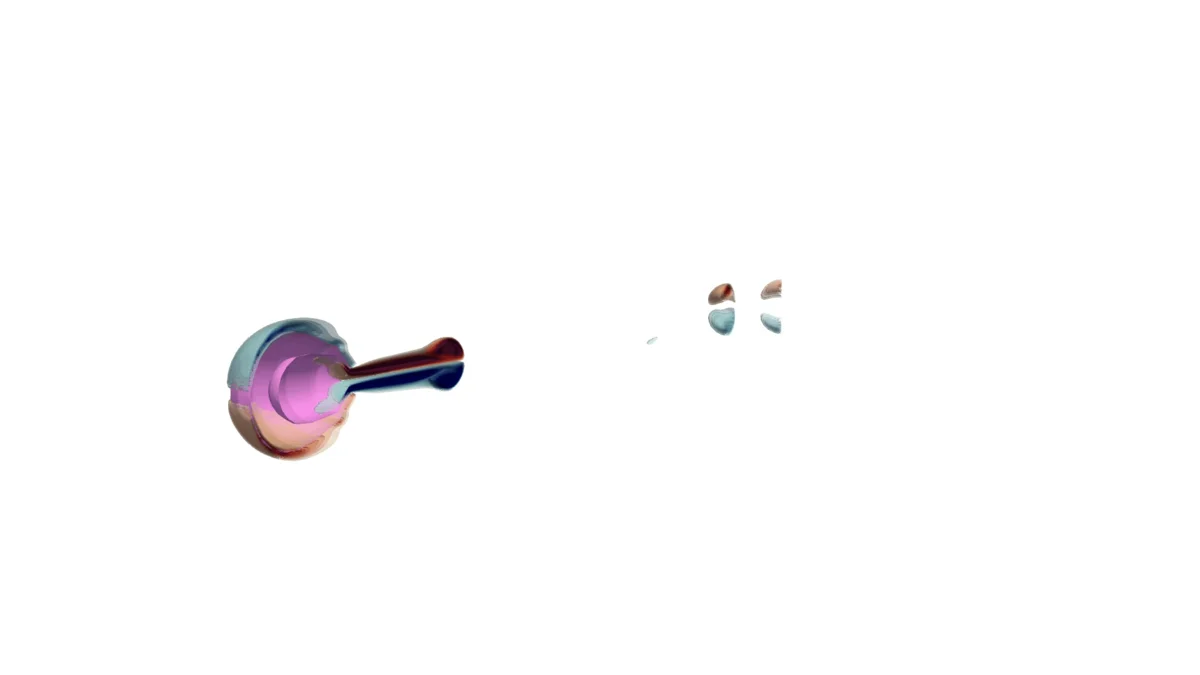
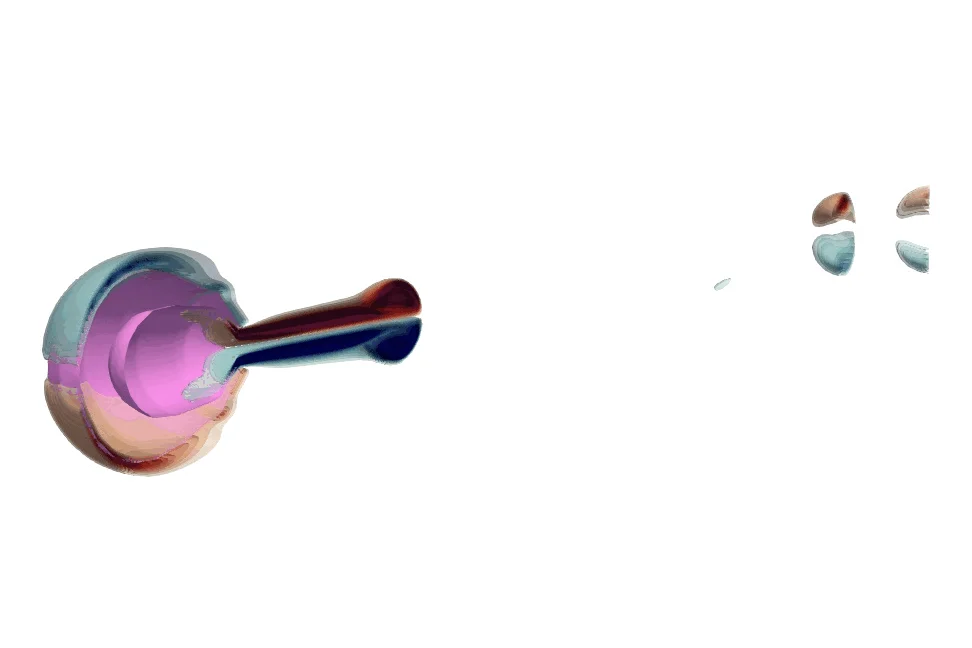
Uniform 3:2 gallery cells and tighter jelly gif crop
Grid items are fixed-aspect white cards with object-fit contain.
jelly.gif is cropped to the animation's content box (2x bigger
subject); gallery_thumbs.rb now coalesces optimized GIF frames
before extracting the thumb frame.

Assisted-By: Claude Fable 5 <[email redacted]>

diff --git a/_sass/custom.scss b/_sass/custom.scss
@@ -358,10 +358,17 @@ img[src*='#center'] {
   transition: transform 0.3s ease, box-shadow 0.3s ease;
 }
 /* The theme's modal gallery styles set .gallery-item to height:100% with
-   centered content; grid items must hug their image instead so the play
-   icon overlays it. */
+   centered content; grid cells are uniform 3:2 cards instead (the height
+   override also keeps the play icon anchored to the cell). */
 .gallery-grid .gallery-item {
   height: auto;
+  aspect-ratio: 3 / 2;
+  background: #fff;  /* letterboxing blends into the white-background figures */
+}
+.gallery-grid .gallery-item img {
+  width: 100%;
+  height: 100%;
+  object-fit: contain;
 }
 /* Play icon over grid thumbs of video items */
 .gallery-grid .gallery-item__play {

diff --git a/_plugins/gallery_thumbs.rb b/_plugins/gallery_thumbs.rb
@@ -75,7 +75,14 @@ module Jekyll
       def generate_thumb(src, dst, frame = 0)
         FileUtils.mkdir_p(File.dirname(dst))
         # [frame] keeps the thumb static for animated sources; no-op otherwise.
-        cmd = [@magick, "#{src}[#{frame}]", '-resize', "#{THUMB_WIDTH}x>", '-strip',
+        # Optimized GIFs store frames as delta regions, so compose the frame
+        # from all frames up to it (-coalesce) instead of reading it raw.
+        input = if frame.zero?
+                  ["#{src}[0]"]
+                else
+                  ["#{src}[0-#{frame}]", '-coalesce', '-delete', "0-#{frame - 1}"]
+                end
+        cmd = [@magick, *input, '-resize', "#{THUMB_WIDTH}x>", '-strip',
                '-quality', THUMB_QUALITY.to_s, dst]
         _, stderr, status = Open3.capture3(*cmd)
         unless status.success?

diff --git a/_gallery/hit.md b/_gallery/hit.md
@@ -4,3 +4,5 @@ image: /assets/images/gallery/hit.png
 video: https://surfdrive.surf.nl/s/BsgAXFZstapgjpe/download
 date: 2026-01-05
 ---
+
+<!-- ZFsZNTXfnPTQXz3 -->